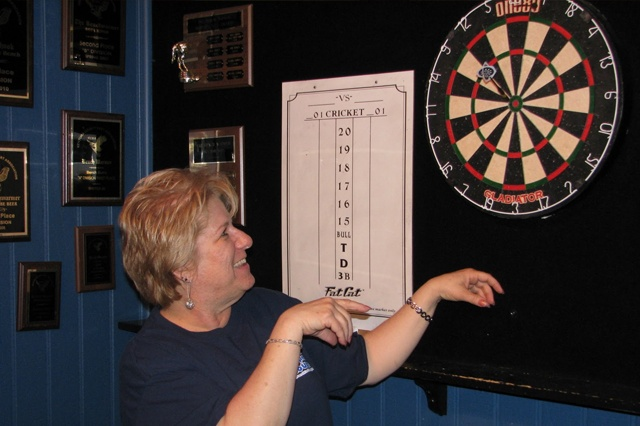
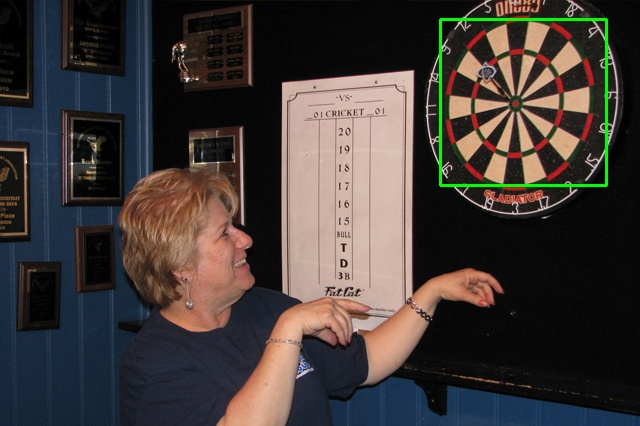
added update_detections()

Changed region(s): [[0.6562, 0.0305, 0.9688, 0.4577]]

diff --git a/csv2.cpp b/csv2.cpp
@@ -250,6 +250,47 @@ vector<Rect> filterRects(vector<Rect> detectedRects, vector<Circle> circles, vec
     return filteredRects2   ;
 }
 
+vector<Rect> update_detections(vector<Rect> detected_rects, vector<Circle> circles, vector<Line> lines) {
+    vector<Rect> final_detections;
+    vector<int> circle_votes, line_votes;
+
+    for (int i = 0; i < detected_rects.size(); i++) {
+        int vote = 0;
+        for (int c = 0; c < circles.size(); c++) {
+            if (abs(detected_rects.at(i).x + detected_rects.at(i).width/2 - circles.at(c).x) < 30 &&
+                abs(detected_rects.at(i).y + detected_rects.at(i).height/2 - circles.at(c).y) < 30)  {
+                    vote++;
+            }
+        }
+        circle_votes.push_back(vote);
+    }
+
+    for (int i = 0; i < detected_rects.size(); i++) {
+        int vote = 0;
+        for (int l1 = 0; l1 < lines.size(); l1++) {
+            for (int l2 = 0; l2 < lines.size(); l2++) {
+                if (l1 != l2) {
+                    Point rect_center = Point(detected_rects.at(i).x + detected_rects.at(i).width/2,
+                                              detected_rects.at(i).y + detected_rects.at(i).height/2);
+                    Point intersect = intersection(lines.at(l1).m,lines.at(l2).m, lines.at(l1).c, lines.at(l2).c);
+                    if (abs(rect_center.x - intersect.x) < 10 && abs(rect_center.y - intersect.y) < 10) {
+                        vote++;
+                    }
+                }
+            }
+        }
+        line_votes.push_back(vote);
+    }
+
+    for (int i = 0; i < detected_rects.size(); i++) {
+        if (circle_votes.at(i) + line_votes.at(i) > 5) {
+            final_detections.push_back(detected_rects.at(i));
+        }
+    }
+
+    return final_detections;
+}
+
 int main(int n, char **args) {
     if (!cascade.load(cascade_name)) printf("--(!)Error loading\n");
     vector<vector<string> > data = readCSV("data.csv");
@@ -264,7 +305,7 @@ int main(int n, char **args) {
         getGradients(image_name, grad_mag, grad_dir);
         vector<Line> lines = houghTransformLines(image_name, grad_mag, grad_dir, 230.0);
         vector<Circle> circles = HoughTransformCircles(image_name, grad_mag, grad_dir, 230.0);
-        vector<Rect> filtered_rects = filterRects(detected_rects.at(i), circles, lines);
+        vector<Rect> filtered_rects = update_detections(detected_rects.at(i), circles, lines);
         write_hough_info(data.at(i).at(0), circles, lines, filtered_rects);
         rects.push_back(filtered_rects);
         cout << "image " << i << " done.\n";
